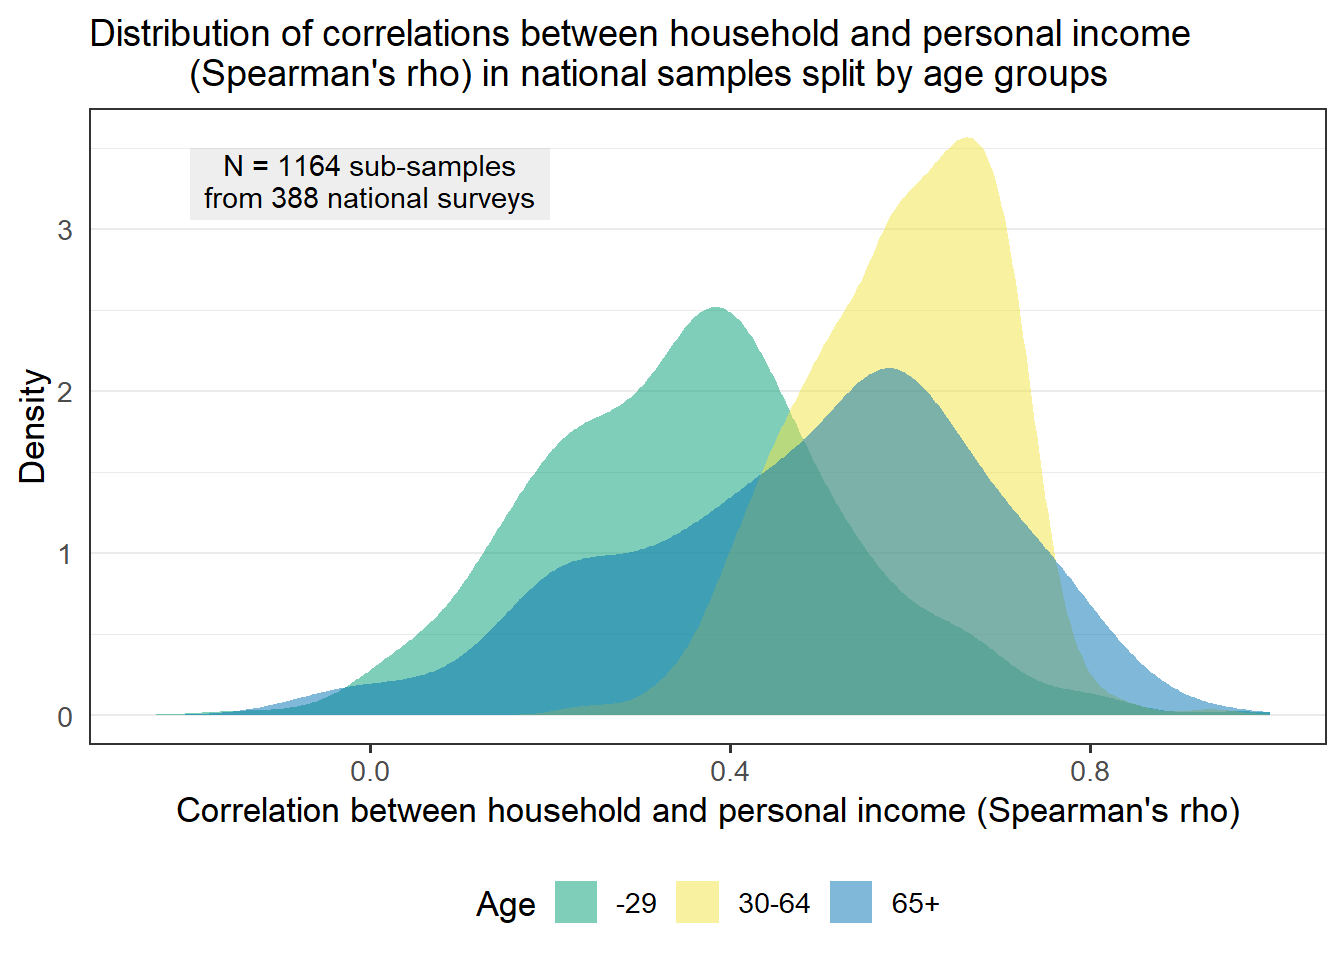
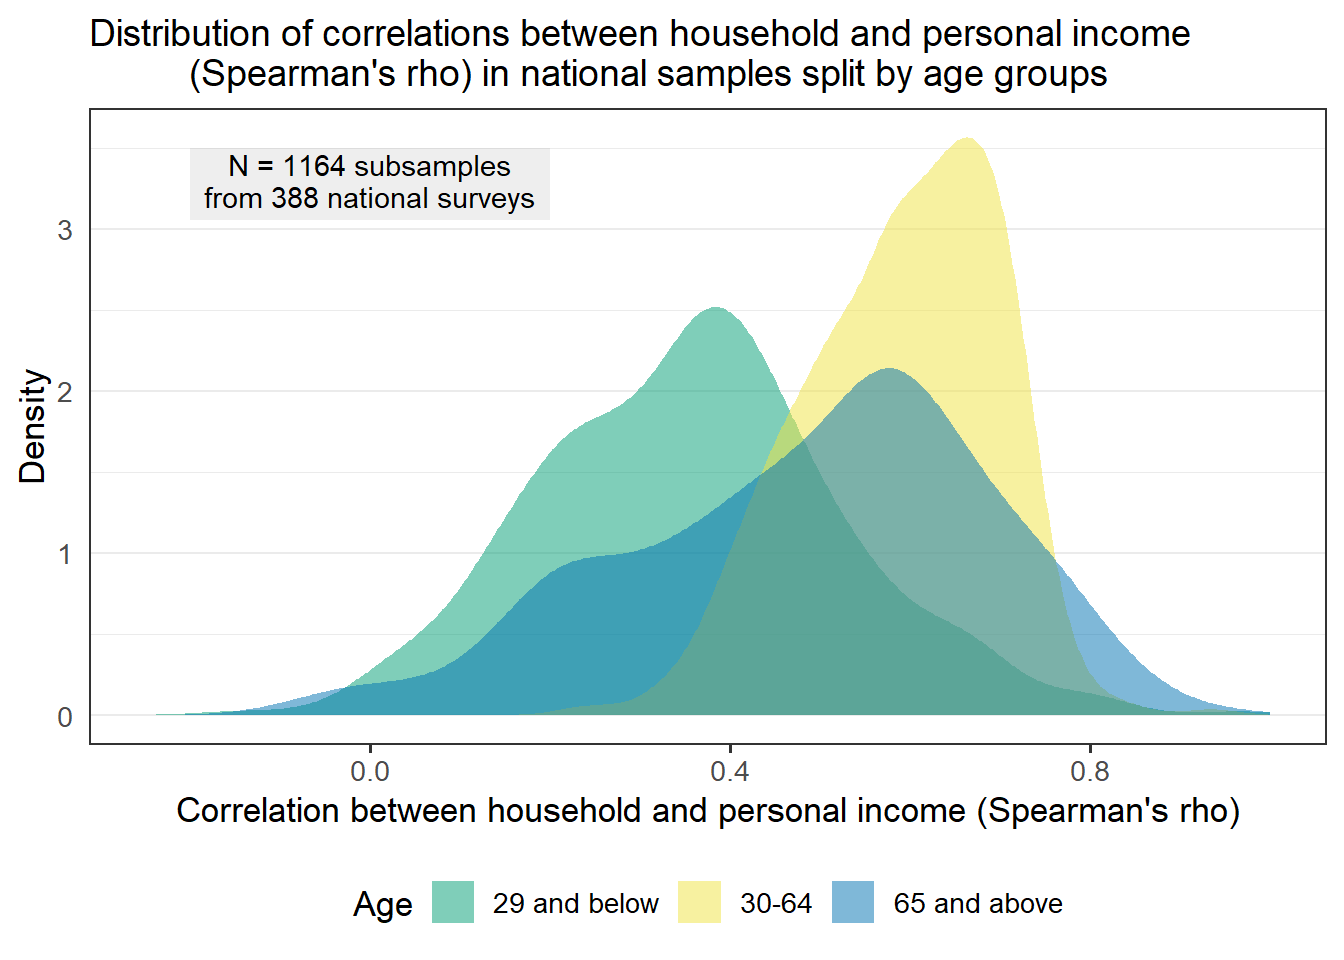
sdr income correlation post 2

diff --git a/content/post/sdr-income-hh-personal-cor.html b/content/post/sdr-income-hh-personal-cor.html
@@ -23,34 +23,34 @@ output:
 </div>
 
 <p>One of the reasons for the harmonization of personal income in addition to household income was to check if the two correlate highly enough to use household income as a substitute for personal income in analyses where economic status is a control variable. This would be great, because household income variables are available in 1177 surveys out of 1721 analyzed in the <a href="https://dataverse.harvard.edu/dataset.xhtml?persistentId=doi:10.7910/DVN/VWGF5Q" target="_blank">Survey Data Recycling dataset (SDR) version 1</a>, while personal income only in 453 surveys. Since 419 national surveys from the SDR dataset have data both for personal and for household income, it’s possible to see how the correlations actually look like.</p>
-<p>Household and personal income are not part of the SDR v.1 dataset, but they have been harmonized extra and are compatible with the SDR master file. More information about the income source variables and their harmonization can be found in this <a href="https://martakolczynska.com/post/sdr-income-hh-personal/">post</a>.</p>
+<p>Household and personal income are not part of the SDR v.1 dataset, but they have been harmonized extra and are compatible with the SDR master file. More information about the income source variables and their harmonization can be found in this <a href="https://martakolczynska.com/post/sdr-income-hh-personal/">post</a>. The code used in this post is available <a href="https://github.com/mkolczynska/martakolczynska/blob/master/content/post/sdr-income-hh-personal.Rmd" target="_blank">here</a>.</p>
 <div id="sample-correlations" class="section level3">
 <h3>Sample correlations</h3>
-<p>I start by calculating correlations between personal and household income separately for each sample. These two variables have been transformed in a minimal way compared to the original source variables: non-substantive responses (“don’t know”, “not applicable”, “refused”) were recoded to missing, and in a few cases coding was reversed so that higher values correspond to more income.</p>
-<p>I use Spearman’s <span class="math inline">\(\rho\)</span> instead of Pearson’s <span class="math inline">\(r\)</span>, because the harmonized income variables have very different distributions in different surveys, as a consequence of the original measurement: in exact income amounts, categories, or quantiles. As shown in the graph below, sample correlations range from 0.2 (ISSP/1991/West Germany) to 0.95 (ISSP/1991/Netherlands), with the mean and median around 0.55.</p>
+<p>I start by calculating correlations between personal and household income separately for each sample. These two variables have been transformed in a minimal way compared to the original source variables: non-substantive responses (“don’t know”, “not applicable”, “refused”, etc.) were recoded to missing, and in a few cases coding was reversed so that higher values correspond to more income.</p>
+<p>I use Spearman’s rank-order correlation instead of Pearson’s product-moment correlation, because the harmonized income variables have very different distributions in different surveys, as a consequence of the original measurement: in exact income amounts, categories, or quantiles. As shown in the graph below, sample correlations range from 0.2 (ISSP/1991/West Germany) to 0.95 (ISSP/1991/Netherlands), with the mean and median around 0.55.</p>
 <p><img src="/post/sdr-income-hh-personal-cor_files/figure-html/hh-personal-plot-1.png" width="672" /></p>
 </div>
 <div id="sample-correlations-by-gender" class="section level3">
 <h3>Sample correlations by gender</h3>
-<p>Next I calculate the same correlations separately for the female and male subsample. The graph below shows that female sub-samples account for most of the low correlations. The median correlation for male subsamples is around 0.67, while for female subsamples it’s 0.48. The lowest correlation is -0.088 in the female subsample in ISSP/1991/West Germany, followed by the female subsample in Political Action 2/West Germany (-0.068), ISSP/1989/Netherlands (-0.011) and ISSP/1991/West Germany (-0.006).</p>
+<p>Next I calculate the same correlations separately for the female and male subsamples. The graph below shows that female subsamples account for most of the low correlations. The median correlation for male subsamples is around 0.67, while for female subsamples it’s 0.48. The lowest correlation is -0.088 in the female subsample in ISSP/1991/West Germany, followed by the female subsample in Political Action 2/West Germany (-0.068), ISSP/1989/Netherlands (-0.011) and ISSP/1991/West Germany (-0.006).</p>
 <p><img src="/post/sdr-income-hh-personal-cor_files/figure-html/hh-personal-gender-plot-1.png" width="672" /></p>
 </div>
 <div id="sample-correlations-by-age" class="section level3">
 <h3>Sample correlations by age</h3>
-<p>Correlations between personal and household income also vary by age. As shown on the next graph they are lowest among respondents under 30 years of age (median 0.36), followed by those 65 and above (median 0.53), and higest among those aged 30-64 (median 0.6). Because some surveys have only few respondents above 60 years of age, I restrict the analysis to samples where each age group has at least 50 respondents, which is true for 396 national samples.</p>
+<p>Correlations between personal and household income also vary by age. As shown on the next graph they are lowest among respondents under 30 years of age (median 0.36), followed by those 65 and above (median 0.53), and highest among those aged 30-64 (median 0.6). Because some surveys have only few respondents above 60 years of age, I restrict the analysis to samples where each age group has at least 50 respondents, which is true for 396 national samples.</p>
 <p><img src="/post/sdr-income-hh-personal-cor_files/figure-html/hh-personal-age-plot-1.png" width="672" /></p>
 </div>
 <div id="sample-correlations-by-education" class="section level3">
 <h3>Sample correlations by education</h3>
-<p>The last examined dimension is education, and correlations between personal and household income are generally higher among those with a high school degree or above (median 0.55) than those with less than high school education (median 0.47).</p>
+<p>The last examined dimension is education. Correlations between personal and household income are generally higher among those with a high school degree or above (median 0.55) than those with less than high school education (median 0.47).</p>
 <p><img src="/post/sdr-income-hh-personal-cor_files/figure-html/hh-personal-edu-plot-1.png" width="672" /></p>
 </div>
 <div id="contrast" class="section level3">
 <h3>Contrast</h3>
-<p>I end with a contrast of distributions of correlations between personal and housegold income for two groups: (1) females, aged less than 30 without high school education (yellow in the graph below), and (2) males, aged 30-64, with high school education or above. Again, I only use surveys that have at least 50 respondents in each of the two groups. In this case it’s just 86 surveys, primarily from ISSP, but also from the from Arab Barometer, ISJP, ISSP, the New Baltics Barometer, and the classic studies from the 1960s and 1970s: Political Action II, Political Action: An Eight Nation Study, and Political Participation and Equality in Seven Nations.</p>
+<p>I end with a contrast of distributions of correlations between personal and household income for two groups: (1) females, aged less than 30 without high school education (yellow in the graph below), and (2) males, aged 30-64, with high school education or above. Again, I only use surveys that have at least 50 respondents in each of the two groups. In this case it’s just 86 surveys, primarily from the International Social Survey Programme, but also from the from Arab Barometer, the International Social Justice Project, the New Baltics Barometer, and the classic studies from the 1960s and 1970s: Political Action II, Political Action: An Eight Nation Study, and Political Participation and Equality in Seven Nations.</p>
 <p><img src="/post/sdr-income-hh-personal-cor_files/figure-html/hh-personal-contrast-1.png" width="672" /></p>
 </div>
 <div id="conclusion" class="section level3">
 <h3>Conclusion</h3>
-<p>One might say, no wonder the correlations between the two contrasting groups in the last graph are so different when looking at surveys from the 1960s and from Arab countries where a lot of women didn’t have their own income. It also makes sense that the correlation is lower for young people, who are more likely to live with parents, and for seniors, who might be living with adult children. The differences between education groups are more difficult to explain and might have to do with larger household size; these differences are also much smaller. All these differences can be investigated. For now the conclusion still is that it’s not realistic to assume that these correlations are universally high or that household income is a universally solid substitute for personal income.</p>
+<p>One might say, no wonder the correlations between the two contrasting groups in the last graph are so different when looking at surveys from the 1960s and from Arab countries where a lot of women don’t have their own income. It also makes sense that the correlation is lower for young people, who are more likely to live with parents, and for seniors, who might be living with adult children. The differences between education groups are more difficult to explain and might have to do with larger household size; these differences are also much smaller. All these differences can be investigated. For now the conclusion still is that it’s not realistic to assume that these correlations are universally high or that household income is a universally solid substitute for personal income.</p>
 </div>

diff --git a/public/post/sdr-income-hh-personal-cor/index.html b/public/post/sdr-income-hh-personal-cor/index.html
@@ -269,36 +269,36 @@
 </div>
 
 <p>One of the reasons for the harmonization of personal income in addition to household income was to check if the two correlate highly enough to use household income as a substitute for personal income in analyses where economic status is a control variable. This would be great, because household income variables are available in 1177 surveys out of 1721 analyzed in the <a href="https://dataverse.harvard.edu/dataset.xhtml?persistentId=doi:10.7910/DVN/VWGF5Q" target="_blank">Survey Data Recycling dataset (SDR) version 1</a>, while personal income only in 453 surveys. Since 419 national surveys from the SDR dataset have data both for personal and for household income, it’s possible to see how the correlations actually look like.</p>
-<p>Household and personal income are not part of the SDR v.1 dataset, but they have been harmonized extra and are compatible with the SDR master file. More information about the income source variables and their harmonization can be found in this <a href="https://martakolczynska.com/post/sdr-income-hh-personal/">post</a>.</p>
+<p>Household and personal income are not part of the SDR v.1 dataset, but they have been harmonized extra and are compatible with the SDR master file. More information about the income source variables and their harmonization can be found in this <a href="https://martakolczynska.com/post/sdr-income-hh-personal/">post</a>. The code used in this post is available <a href="https://github.com/mkolczynska/martakolczynska/blob/master/content/post/sdr-income-hh-personal.Rmd" target="_blank">here</a>.</p>
 <div id="sample-correlations" class="section level3">
 <h3>Sample correlations</h3>
-<p>I start by calculating correlations between personal and household income separately for each sample. These two variables have been transformed in a minimal way compared to the original source variables: non-substantive responses (“don’t know”, “not applicable”, “refused”) were recoded to missing, and in a few cases coding was reversed so that higher values correspond to more income.</p>
-<p>I use Spearman’s <span class="math inline">\(\rho\)</span> instead of Pearson’s <span class="math inline">\(r\)</span>, because the harmonized income variables have very different distributions in different surveys, as a consequence of the original measurement: in exact income amounts, categories, or quantiles. As shown in the graph below, sample correlations range from 0.2 (ISSP/1991/West Germany) to 0.95 (ISSP/1991/Netherlands), with the mean and median around 0.55.</p>
+<p>I start by calculating correlations between personal and household income separately for each sample. These two variables have been transformed in a minimal way compared to the original source variables: non-substantive responses (“don’t know”, “not applicable”, “refused”, etc.) were recoded to missing, and in a few cases coding was reversed so that higher values correspond to more income.</p>
+<p>I use Spearman’s rank-order correlation instead of Pearson’s product-moment correlation, because the harmonized income variables have very different distributions in different surveys, as a consequence of the original measurement: in exact income amounts, categories, or quantiles. As shown in the graph below, sample correlations range from 0.2 (ISSP/1991/West Germany) to 0.95 (ISSP/1991/Netherlands), with the mean and median around 0.55.</p>
 <p><img src="/post/sdr-income-hh-personal-cor_files/figure-html/hh-personal-plot-1.png" width="672" /></p>
 </div>
 <div id="sample-correlations-by-gender" class="section level3">
 <h3>Sample correlations by gender</h3>
-<p>Next I calculate the same correlations separately for the female and male subsample. The graph below shows that female sub-samples account for most of the low correlations. The median correlation for male subsamples is around 0.67, while for female subsamples it’s 0.48. The lowest correlation is -0.088 in the female subsample in ISSP/1991/West Germany, followed by the female subsample in Political Action 2/West Germany (-0.068), ISSP/1989/Netherlands (-0.011) and ISSP/1991/West Germany (-0.006).</p>
+<p>Next I calculate the same correlations separately for the female and male subsamples. The graph below shows that female subsamples account for most of the low correlations. The median correlation for male subsamples is around 0.67, while for female subsamples it’s 0.48. The lowest correlation is -0.088 in the female subsample in ISSP/1991/West Germany, followed by the female subsample in Political Action 2/West Germany (-0.068), ISSP/1989/Netherlands (-0.011) and ISSP/1991/West Germany (-0.006).</p>
 <p><img src="/post/sdr-income-hh-personal-cor_files/figure-html/hh-personal-gender-plot-1.png" width="672" /></p>
 </div>
 <div id="sample-correlations-by-age" class="section level3">
 <h3>Sample correlations by age</h3>
-<p>Correlations between personal and household income also vary by age. As shown on the next graph they are lowest among respondents under 30 years of age (median 0.36), followed by those 65 and above (median 0.53), and higest among those aged 30-64 (median 0.6). Because some surveys have only few respondents above 60 years of age, I restrict the analysis to samples where each age group has at least 50 respondents, which is true for 396 national samples.</p>
+<p>Correlations between personal and household income also vary by age. As shown on the next graph they are lowest among respondents under 30 years of age (median 0.36), followed by those 65 and above (median 0.53), and highest among those aged 30-64 (median 0.6). Because some surveys have only few respondents above 60 years of age, I restrict the analysis to samples where each age group has at least 50 respondents, which is true for 396 national samples.</p>
 <p><img src="/post/sdr-income-hh-personal-cor_files/figure-html/hh-personal-age-plot-1.png" width="672" /></p>
 </div>
 <div id="sample-correlations-by-education" class="section level3">
 <h3>Sample correlations by education</h3>
-<p>The last examined dimension is education, and correlations between personal and household income are generally higher among those with a high school degree or above (median 0.55) than those with less than high school education (median 0.47).</p>
+<p>The last examined dimension is education. Correlations between personal and household income are generally higher among those with a high school degree or above (median 0.55) than those with less than high school education (median 0.47).</p>
 <p><img src="/post/sdr-income-hh-personal-cor_files/figure-html/hh-personal-edu-plot-1.png" width="672" /></p>
 </div>
 <div id="contrast" class="section level3">
 <h3>Contrast</h3>
-<p>I end with a contrast of distributions of correlations between personal and housegold income for two groups: (1) females, aged less than 30 without high school education (yellow in the graph below), and (2) males, aged 30-64, with high school education or above. Again, I only use surveys that have at least 50 respondents in each of the two groups. In this case it’s just 86 surveys, primarily from ISSP, but also from the from Arab Barometer, ISJP, ISSP, the New Baltics Barometer, and the classic studies from the 1960s and 1970s: Political Action II, Political Action: An Eight Nation Study, and Political Participation and Equality in Seven Nations.</p>
+<p>I end with a contrast of distributions of correlations between personal and household income for two groups: (1) females, aged less than 30 without high school education (yellow in the graph below), and (2) males, aged 30-64, with high school education or above. Again, I only use surveys that have at least 50 respondents in each of the two groups. In this case it’s just 86 surveys, primarily from the International Social Survey Programme, but also from the from Arab Barometer, the International Social Justice Project, the New Baltics Barometer, and the classic studies from the 1960s and 1970s: Political Action II, Political Action: An Eight Nation Study, and Political Participation and Equality in Seven Nations.</p>
 <p><img src="/post/sdr-income-hh-personal-cor_files/figure-html/hh-personal-contrast-1.png" width="672" /></p>
 </div>
 <div id="conclusion" class="section level3">
 <h3>Conclusion</h3>
-<p>One might say, no wonder the correlations between the two contrasting groups in the last graph are so different when looking at surveys from the 1960s and from Arab countries where a lot of women didn’t have their own income. It also makes sense that the correlation is lower for young people, who are more likely to live with parents, and for seniors, who might be living with adult children. The differences between education groups are more difficult to explain and might have to do with larger household size; these differences are also much smaller. All these differences can be investigated. For now the conclusion still is that it’s not realistic to assume that these correlations are universally high or that household income is a universally solid substitute for personal income.</p>
+<p>One might say, no wonder the correlations between the two contrasting groups in the last graph are so different when looking at surveys from the 1960s and from Arab countries where a lot of women don’t have their own income. It also makes sense that the correlation is lower for young people, who are more likely to live with parents, and for seniors, who might be living with adult children. The differences between education groups are more difficult to explain and might have to do with larger household size; these differences are also much smaller. All these differences can be investigated. For now the conclusion still is that it’s not realistic to assume that these correlations are universally high or that household income is a universally solid substitute for personal income.</p>
 </div>
 
 
